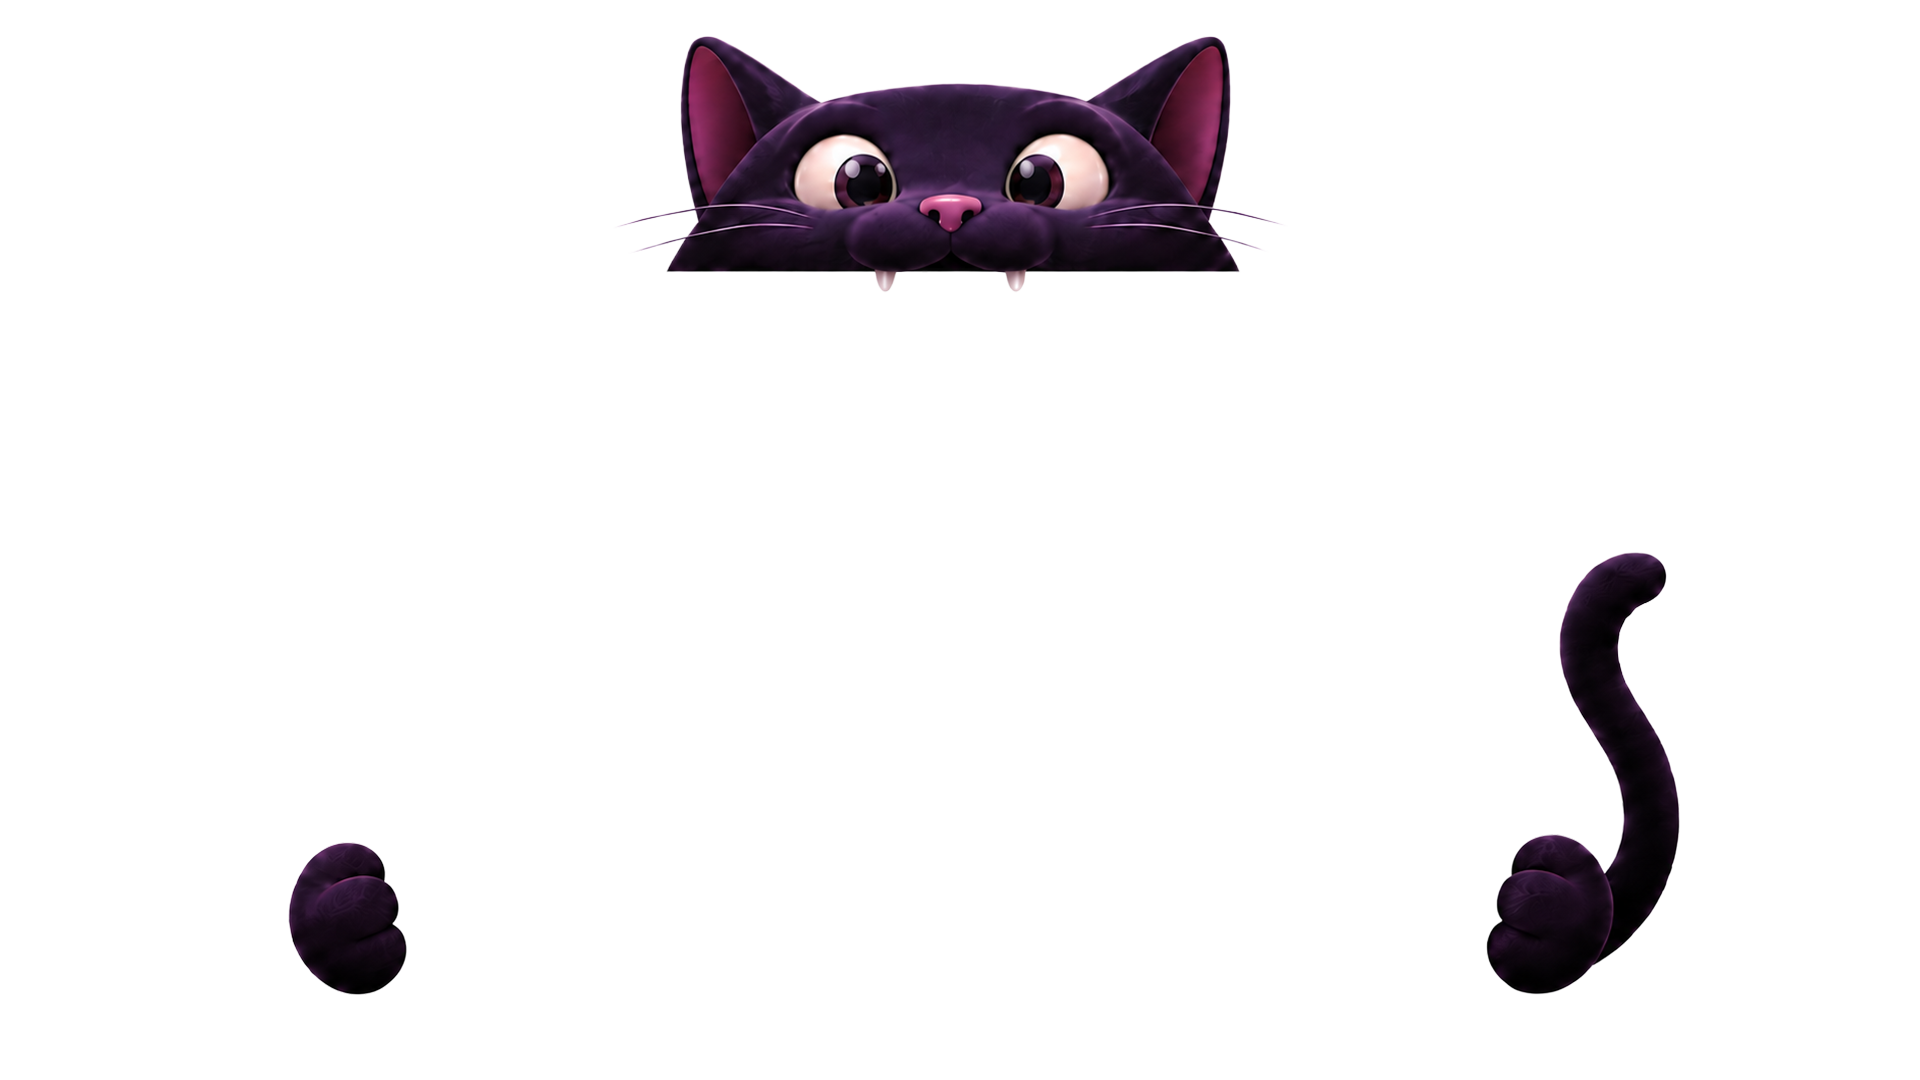
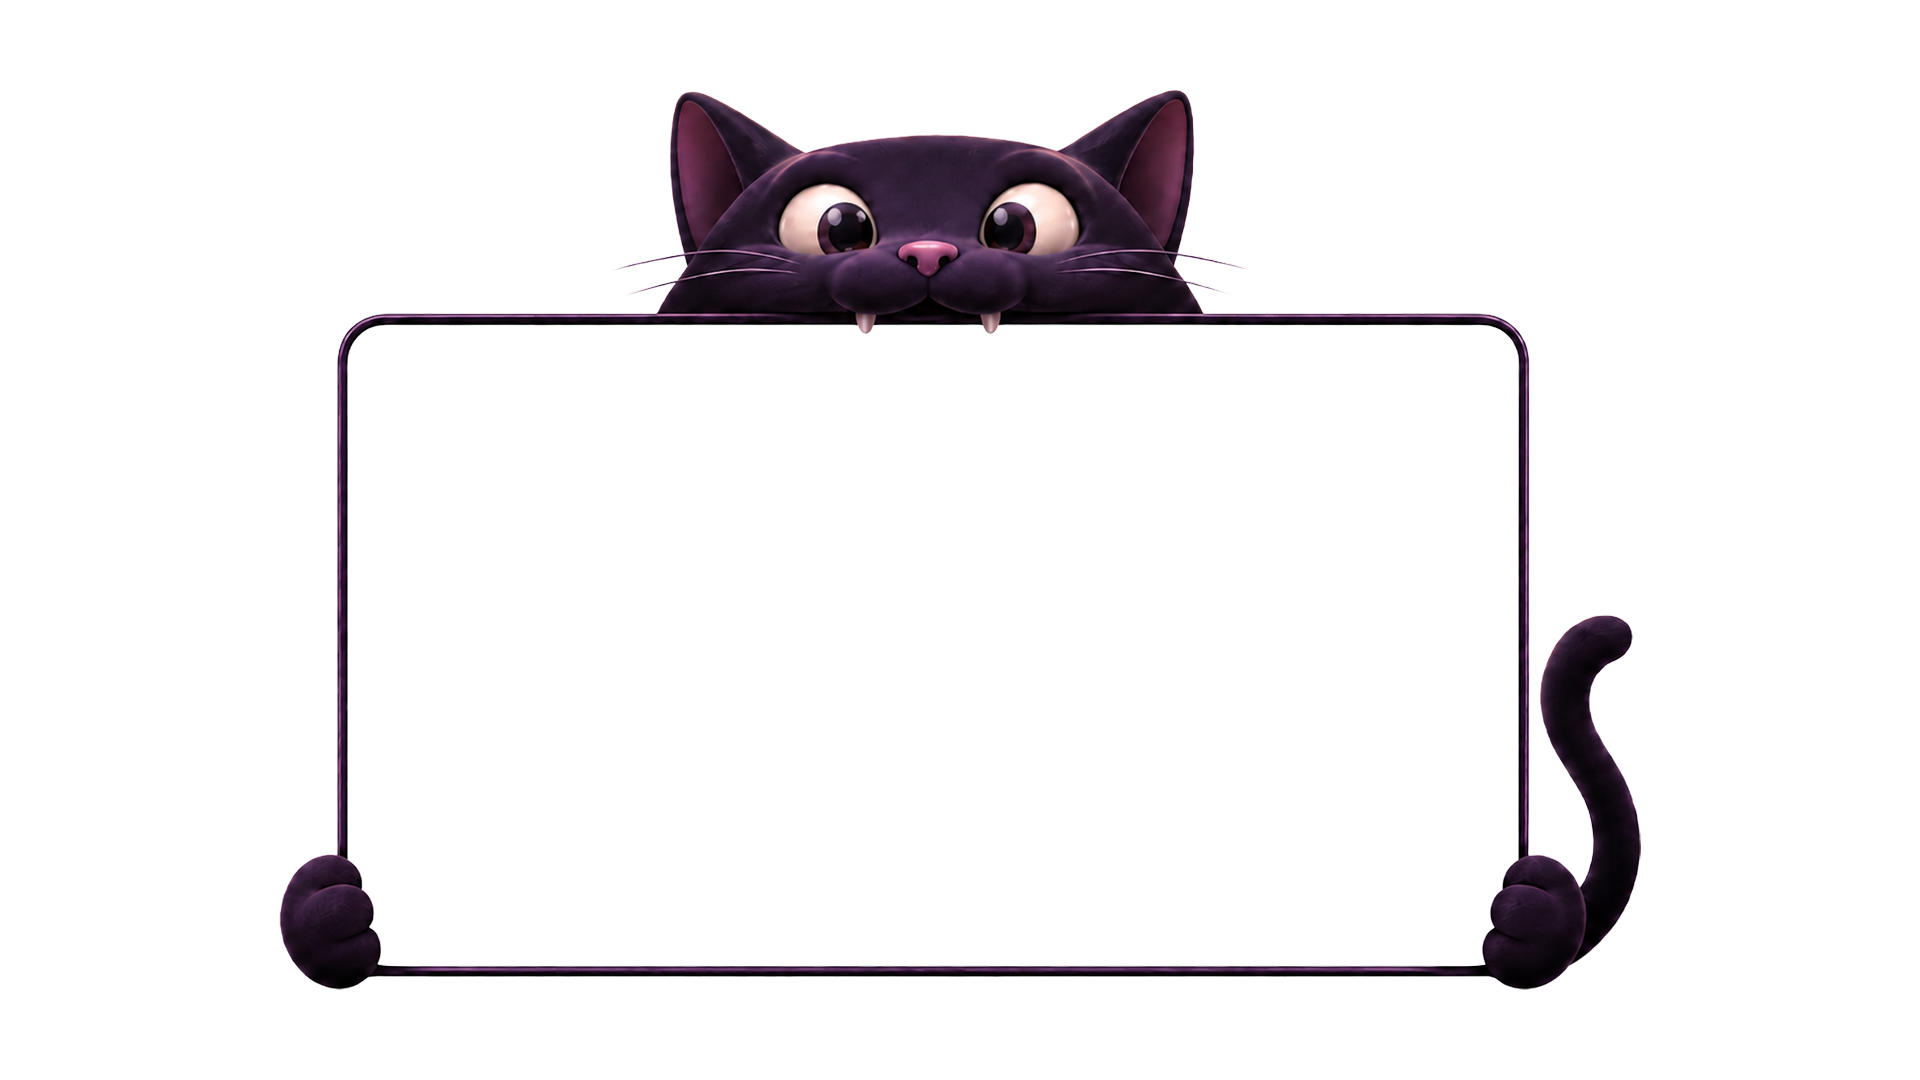
Hero: single combined cat+frame asset (desk + mob), mask drives the reel clip; slider stays below cat so teeth hang over

Changed region(s): [[0.1875, 0.0306, 0.7812, 0.3056], [0.1562, 0.3056, 0.875, 0.9167], [0.125, 0.825, 0.1562, 0.8861]]

diff --git a/scss/components/_hero.scss b/scss/components/_hero.scss
@@ -34,17 +34,7 @@
   width: 100%;
   height: 100%;
   object-fit: contain;
-  z-index: 3; /* In front of frame so teeth & paws overhang */
-  pointer-events: none;
-}
-
-.hero__frame-img {
-  position: absolute;
-  inset: 0;
-  width: 100%;
-  height: 100%;
-  object-fit: contain;
-  z-index: 2;
+  z-index: 3; /* In front of the masked reel — teeth & paws overhang */
   pointer-events: none;
 }
 
@@ -71,8 +61,8 @@
 /* Reel positioned to the mask bounding box (measured from deskmask.png alpha) */
 .hero__mouth-track {
   position: absolute;
-  top: 26.02%;
-  left: 19.27%;
+  top: 29.35%;
+  left: 17.71%;
   width: 61.46%;
   height: 60.93%;
 }
@@ -175,39 +165,26 @@
 /* ——— Responsive ——— */
 @media (max-width: 768px) {
   .hero__cat-wrapper {
-    /* Portrait cat (newcatmob) — taller than desktop and centered vertically */
+    /* mobcat.png shares the 1920x1080 canvas — phone+cat sit ~20% wide in the
+       middle, so we blow the wrapper way up to scale the visible content. */
     top: 52%;
-    aspect-ratio: 1024 / 1535;
-    width: auto;
-    height: min(92vh, 155vw);
-    max-width: 100vw;
+    width: 290vw;
+    height: auto;
+    aspect-ratio: 1920 / 1080;
+    max-width: none;
   }
 
   .hero__mouth-slider {
-    inset: auto;
-    top: 52%;
-    left: 50%;
-    transform: translate(-50%, -50%);
-    width: 58%;
-    height: auto;
-    aspect-ratio: 1272 / 2350;
-    -webkit-mask-image: none;
-    mask-image: none;
-    border-radius: $r-lg;
-    background: #000;
-    box-shadow: inset 0 0 20px rgba(0, 0, 0, 0.85);
+    -webkit-mask-image: url('../../assets/images/mobmask.png');
+    mask-image: url('../../assets/images/mobmask.png');
   }
 
   .hero__mouth-track {
-    position: relative;
-    top: auto;
-    left: auto;
-    width: 100%;
-    height: 100%;
-  }
-
-  .hero__frame-img {
-    display: none;
+    /* mobmask.png bounding box */
+    top: 23.70%;
+    left: 39.79%;
+    width: 20.31%;
+    height: 67.13%;
   }
 
   .hero__gradient {

diff --git a/index.html b/index.html
@@ -87,7 +87,7 @@
     <!-- HERO -->
     <section class="hero" id="hero">
       <div class="hero__cat-wrapper">
-        <!-- Z-Index 1: The Looping Slideshow inside the frame -->
+        <!-- z=1: Looping reel, mask-clipped to the cat's screen interior -->
         <div class="hero__mouth-slider" id="mouth-slider">
           <div class="hero__mouth-track" id="mouth-track">
             <picture>
@@ -107,16 +107,13 @@
               <img class="hero__mouth-img" src="assets/images/project-clinical.jpg" alt="" />
             </picture>
           </div>
-          <!-- TV screen effect overlay -->
           <div class="hero__tv-overlay"></div>
         </div>
-        <!-- Z-Index 2: The Cat (body + paws) -->
+        <!-- z=3: Cat + frame, single combined image — teeth hang over the reel -->
         <picture>
-          <source media="(max-width: 768px)" srcset="assets/images/newcatmob.png" />
+          <source media="(max-width: 768px)" srcset="assets/images/mobcat.png" />
           <img class="hero__cat-img" src="assets/images/deskcat.png" alt="Cat" />
         </picture>
-        <!-- Z-Index 3: The Frame (clipping mask over slider) -->
-        <img class="hero__frame-img" src="assets/images/deskframe.png" alt="" />
       </div>
 
       <!-- GIANT MARQUEE -->